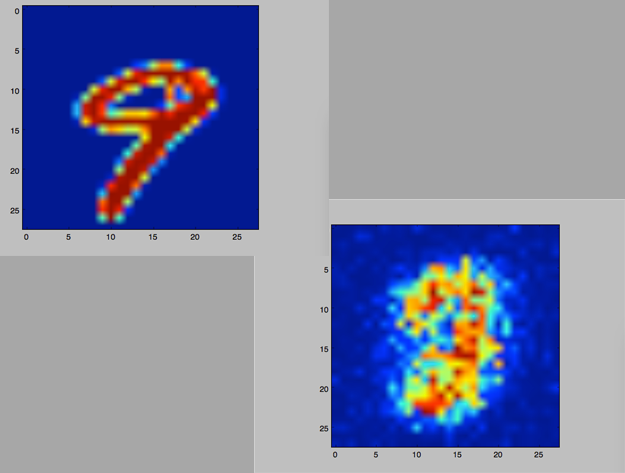
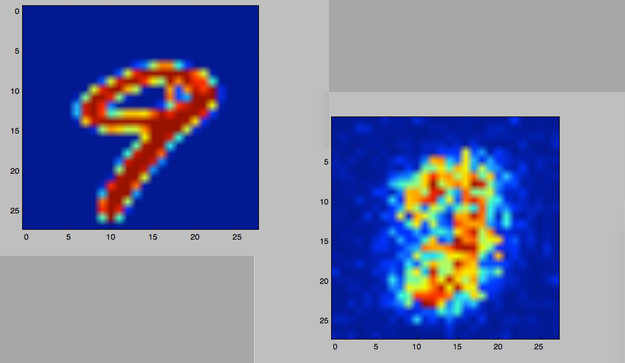
fixes

diff --git a/css/creative.min.css b/css/creative.min.css
@@ -2,4 +2,4 @@
  * Start Bootstrap - Creative v3.3.7+1 (http://startbootstrap.com/template-overviews/creative)
  * Copyright 2013-2016 Start Bootstrap
  * Licensed under MIT (https://github.com/BlackrockDigital/startbootstrap/blob/gh-pages/LICENSE)
- */.navbar-default,a{-webkit-transition:all .35s;-moz-transition:all .35s}header,header .header-content{position:relative;width:100%;text-align:center}body,html{height:100%;width:100%}body{font-family:Merriweather,'Helvetica Neue',Arial,sans-serif;webkit-tap-highlight-color:#222}.btn,.navbar-default,.navbar-default .navbar-header .navbar-brand,h1,h2,h3,h4,h5,h6{font-family:'Open Sans','Helvetica Neue',Arial,sans-serif}hr{border-color:#F05F40;border-width:3px;max-width:50px}hr.light{border-color:#fff}a{transition:all .35s;color:#F05F40}a:focus,a:hover{color:#eb3812}p{font-size:16px;line-height:1.5;margin-bottom:20px}.bg-primary{background-color:#F05F40}.bg-dark{background-color:#222;color:#fff}.text-faded{color:rgba(255,255,255,.7)}section{padding:100px 0}aside{padding:50px 0}.no-padding{padding:0}.navbar-default{background-color:#fff;border-color:rgba(34,34,34,.05);transition:all .35s}.btn-default,.portfolio-box .portfolio-box-caption{-webkit-transition:all .35s;-moz-transition:all .35s}.navbar-default .navbar-header .navbar-brand{color:#F05F40;font-weight:700;text-transform:uppercase}.navbar-default .navbar-header .navbar-brand:focus,.navbar-default .navbar-header .navbar-brand:hover{color:#eb3812}.navbar-default .navbar-header .navbar-toggle{font-weight:700;font-size:12px;color:#222;text-transform:uppercase}.navbar-default .nav>li>a,.navbar-default .nav>li>a:focus{text-transform:uppercase;font-weight:700;font-size:13px;color:#222}.navbar-default .nav>li>a:focus:hover,.navbar-default .nav>li>a:hover{color:#F05F40}.navbar-default .nav>li.active>a,.navbar-default .nav>li.active>a:focus{color:#F05F40!important;background-color:transparent}.navbar-default .nav>li.active>a:focus:hover,.navbar-default .nav>li.active>a:hover{background-color:transparent}@media (min-width:768px){.navbar-default{background-color:transparent;border-color:rgba(255,255,255,.3)}.navbar-default .navbar-header .navbar-brand{color:rgba(255,255,255,.7)}.navbar-default .navbar-header .navbar-brand:focus,.navbar-default .navbar-header .navbar-brand:hover{color:#fff}.navbar-default .nav>li>a,.navbar-default .nav>li>a:focus{color:rgba(255,255,255,.7)}.navbar-default .nav>li>a:focus:hover,.navbar-default .nav>li>a:hover{color:#fff}.navbar-default.affix{background-color:#fff;border-color:rgba(34,34,34,.05)}.navbar-default.affix .navbar-header .navbar-brand{color:#F05F40;font-size:14px}.navbar-default.affix .navbar-header .navbar-brand:focus,.navbar-default.affix .navbar-header .navbar-brand:hover{color:#eb3812}.navbar-default.affix .nav>li>a,.navbar-default.affix .nav>li>a:focus{color:#222}.navbar-default.affix .nav>li>a:focus:hover,.navbar-default.affix .nav>li>a:hover{color:#F05F40}}header{min-height:auto;-webkit-background-size:cover;-moz-background-size:cover;background-size:cover;-o-background-size:cover;background-position:center;background-image:url(../img/header.jpg);color:#fff}header .header-content{padding:100px 15px}header .header-content .header-content-inner h1{font-weight:700;text-transform:uppercase;margin-top:0;margin-bottom:0;font-size:30px}header .header-content .header-content-inner hr{margin:30px auto}header .header-content .header-content-inner p{font-weight:300;color:rgba(255,255,255,.7);font-size:16px;margin-bottom:50px}@media (min-width:768px){header{min-height:100%}header .header-content{position:absolute;top:50%;-webkit-transform:translateY(-50%);-ms-transform:translateY(-50%);transform:translateY(-50%);padding:0 50px}header .header-content .header-content-inner{max-width:1000px;margin-left:auto;margin-right:auto}header .header-content .header-content-inner h1{font-size:50px}header .header-content .header-content-inner p{font-size:18px;max-width:80%;margin-left:auto;margin-right:auto}}.section-heading{margin-top:0}.service-box{max-width:400px;margin:50px auto 0}@media (min-width:992px){.service-box{margin:20px auto 0}}.service-box p{margin-bottom:0}.portfolio-box{position:relative;display:block;max-width:650px;margin:0 auto}.portfolio-box .portfolio-box-caption{color:#fff;opacity:0;display:block;background:rgba(240,95,64,.9);position:absolute;bottom:0;text-align:center;width:100%;height:100%;transition:all .35s}.btn-default.active,.btn-default:active,.btn-primary.active,.btn-primary:active,.open>.dropdown-toggle.btn-default,.open>.dropdown-toggle.btn-primary{background-image:none}.portfolio-box .portfolio-box-caption .portfolio-box-caption-content{width:100%;text-align:center;position:absolute;top:50%;transform:translateY(-50%)}.portfolio-box .portfolio-box-caption .portfolio-box-caption-content .project-category,.portfolio-box .portfolio-box-caption .portfolio-box-caption-content .project-name{font-family:'Open Sans','Helvetica Neue',Arial,sans-serif;padding:0 15px}.portfolio-box .portfolio-box-caption .portfolio-box-caption-content .project-category{text-transform:uppercase;font-weight:600;font-size:14px}.portfolio-box .portfolio-box-caption .portfolio-box-caption-content .project-name{font-size:18px}.portfolio-box:hover .portfolio-box-caption{opacity:1}.portfolio-box:focus{outline:0}@media (min-width:768px){.portfolio-box .portfolio-box-caption .portfolio-box-caption-content .project-category{font-size:16px}.portfolio-box .portfolio-box-caption .portfolio-box-caption-content .project-name{font-size:22px}}.call-to-action h2{margin:0 auto 20px}.text-primary{color:#F05F40}.no-gutter>[class*=col-]{padding-right:0;padding-left:0}.btn-default{color:#222;background-color:#fff;border-color:#fff;transition:all .35s}.btn-default.active,.btn-default.focus,.btn-default:active,.btn-default:focus,.btn-default:hover,.open>.dropdown-toggle.btn-default{color:#222;background-color:#f2f2f2;border-color:#ededed}.btn-default.disabled,.btn-default.disabled.active,.btn-default.disabled.focus,.btn-default.disabled:active,.btn-default.disabled:focus,.btn-default.disabled:hover,.btn-default[disabled],.btn-default[disabled].active,.btn-default[disabled].focus,.btn-default[disabled]:active,.btn-default[disabled]:focus,.btn-default[disabled]:hover,fieldset[disabled] .btn-default,fieldset[disabled] .btn-default.active,fieldset[disabled] .btn-default.focus,fieldset[disabled] .btn-default:active,fieldset[disabled] .btn-default:focus,fieldset[disabled] .btn-default:hover{background-color:#fff;border-color:#fff}.btn-default .badge{color:#fff;background-color:#222}.btn-primary{color:#fff;background-color:#F05F40;border-color:#F05F40;-webkit-transition:all .35s;-moz-transition:all .35s;transition:all .35s}.btn-primary.active,.btn-primary.focus,.btn-primary:active,.btn-primary:focus,.btn-primary:hover,.open>.dropdown-toggle.btn-primary{color:#fff;background-color:#ee4b28;border-color:#ed431f}.btn-primary.disabled,.btn-primary.disabled.active,.btn-primary.disabled.focus,.btn-primary.disabled:active,.btn-primary.disabled:focus,.btn-primary.disabled:hover,.btn-primary[disabled],.btn-primary[disabled].active,.btn-primary[disabled].focus,.btn-primary[disabled]:active,.btn-primary[disabled]:focus,.btn-primary[disabled]:hover,fieldset[disabled] .btn-primary,fieldset[disabled] .btn-primary.active,fieldset[disabled] .btn-primary.focus,fieldset[disabled] .btn-primary:active,fieldset[disabled] .btn-primary:focus,fieldset[disabled] .btn-primary:hover{background-color:#F05F40;border-color:#F05F40}.btn-primary .badge{color:#F05F40;background-color:#fff}.btn{border:none;border-radius:300px;font-weight:700;text-transform:uppercase}.btn-xl{padding:15px 30px}::-moz-selection{color:#fff;text-shadow:none;background:#222}::selection{color:#fff;text-shadow:none;background:#222}img::selection{color:#fff;background:0 0}img::-moz-selection{color:#fff;background:0 0}
+ */.navbar-default,a{-webkit-transition:all .35s;-moz-transition:all .35s}header,header .header-content{position:relative;width:100%;text-align:center}body,html{height:100%;width:100%}body{font-family:Merriweather,'Helvetica Neue',Arial,sans-serif;webkit-tap-highlight-color:#222}.btn,.navbar-default,.navbar-default .navbar-header .navbar-brand,h1,h2,h3,h4,h5,h6{font-family:'Open Sans','Helvetica Neue',Arial,sans-serif}hr{border-color:#F05F40;border-width:3px;max-width:50px}hr.light{border-color:#fff}a{transition:all .35s;color:#F05F40}a:focus,a:hover{color:#eb3812}p{font-size:16px;line-height:1.5;margin-bottom:20px}.bg-primary{background-color:#F05F40}.bg-dark{background-color:#222;color:#fff}.text-faded{color:rgba(255,255,255,.7)}section{padding:100px 0}aside{padding:50px 0}.no-padding{padding:0}.navbar-default{background-color:#fff;border-color:rgba(34,34,34,.05);transition:all .35s}.btn-default,.portfolio-box .portfolio-box-caption{-webkit-transition:all .35s;-moz-transition:all .35s}.navbar-default .navbar-header .navbar-brand{color:#F05F40;font-weight:700;text-transform:uppercase}.navbar-default .navbar-header .navbar-brand:focus,.navbar-default .navbar-header .navbar-brand:hover{color:#eb3812}.navbar-default .navbar-header .navbar-toggle{font-weight:700;font-size:12px;color:#222;text-transform:uppercase}.navbar-default .nav>li>a,.navbar-default .nav>li>a:focus{text-transform:uppercase;font-weight:700;font-size:13px;color:#222}.navbar-default .nav>li>a:focus:hover,.navbar-default .nav>li>a:hover{color:#F05F40}.navbar-default .nav>li.active>a,.navbar-default .nav>li.active>a:focus{color:#F05F40!important;background-color:transparent}.navbar-default .nav>li.active>a:focus:hover,.navbar-default .nav>li.active>a:hover{background-color:transparent}@media (min-width:768px){.navbar-default{background-color:transparent;border-color:rgba(255,255,255,.3)}.navbar-default .navbar-header .navbar-brand{color:rgba(255,255,255,.7)}.navbar-default .navbar-header .navbar-brand:focus,.navbar-default .navbar-header .navbar-brand:hover{color:#fff}.navbar-default .nav>li>a,.navbar-default .nav>li>a:focus{color:rgba(255,255,255,.7)}.navbar-default .nav>li>a:focus:hover,.navbar-default .nav>li>a:hover{color:#fff}.navbar-default.affix{background-color:#fff;border-color:rgba(34,34,34,.05)}.navbar-default.affix .navbar-header .navbar-brand{color:#F05F40;font-size:14px}.navbar-default.affix .navbar-header .navbar-brand:focus,.navbar-default.affix .navbar-header .navbar-brand:hover{color:#eb3812}.navbar-default.affix .nav>li>a,.navbar-default.affix .nav>li>a:focus{color:#222}.navbar-default.affix .nav>li>a:focus:hover,.navbar-default.affix .nav>li>a:hover{color:#F05F40}}header{min-height:auto;-webkit-background-size:cover;-moz-background-size:cover;background-size:cover;-o-background-size:cover;background-position:center;background-image:url(../imgs/howls.png);color:#fff}header .header-content{padding:100px 15px}header .header-content .header-content-inner h1{font-weight:700;text-transform:uppercase;margin-top:0;margin-bottom:0;font-size:30px}header .header-content .header-content-inner hr{margin:30px auto}header .header-content .header-content-inner p{font-weight:300;color:rgba(255,255,255,.7);font-size:16px;margin-bottom:50px}@media (min-width:768px){header{min-height:100%}header .header-content{position:absolute;top:50%;-webkit-transform:translateY(-50%);-ms-transform:translateY(-50%);transform:translateY(-50%);padding:0 50px}header .header-content .header-content-inner{max-width:1000px;margin-left:auto;margin-right:auto}header .header-content .header-content-inner h1{font-size:50px}header .header-content .header-content-inner p{font-size:18px;max-width:80%;margin-left:auto;margin-right:auto}}.section-heading{margin-top:0}.service-box{max-width:400px;margin:50px auto 0}@media (min-width:992px){.service-box{margin:20px auto 0}}.service-box p{margin-bottom:0}.portfolio-box{position:relative;display:block;max-width:650px;margin:0 auto}.portfolio-box .portfolio-box-caption{color:#fff;opacity:0;display:block;background:rgba(240,95,64,.9);position:absolute;bottom:0;text-align:center;width:100%;height:100%;transition:all .35s}.btn-default.active,.btn-default:active,.btn-primary.active,.btn-primary:active,.open>.dropdown-toggle.btn-default,.open>.dropdown-toggle.btn-primary{background-image:none}.portfolio-box .portfolio-box-caption .portfolio-box-caption-content{width:100%;text-align:center;position:absolute;top:50%;transform:translateY(-50%)}.portfolio-box .portfolio-box-caption .portfolio-box-caption-content .project-category,.portfolio-box .portfolio-box-caption .portfolio-box-caption-content .project-name{font-family:'Open Sans','Helvetica Neue',Arial,sans-serif;padding:0 15px}.portfolio-box .portfolio-box-caption .portfolio-box-caption-content .project-category{text-transform:uppercase;font-weight:600;font-size:14px}.portfolio-box .portfolio-box-caption .portfolio-box-caption-content .project-name{font-size:18px}.portfolio-box:hover .portfolio-box-caption{opacity:1}.portfolio-box:focus{outline:0}@media (min-width:768px){.portfolio-box .portfolio-box-caption .portfolio-box-caption-content .project-category{font-size:16px}.portfolio-box .portfolio-box-caption .portfolio-box-caption-content .project-name{font-size:22px}}.call-to-action h2{margin:0 auto 20px}.text-primary{color:#F05F40}.no-gutter>[class*=col-]{padding-right:0;padding-left:0}.btn-default{color:#222;background-color:#fff;border-color:#fff;transition:all .35s}.btn-default.active,.btn-default.focus,.btn-default:active,.btn-default:focus,.btn-default:hover,.open>.dropdown-toggle.btn-default{color:#222;background-color:#f2f2f2;border-color:#ededed}.btn-default.disabled,.btn-default.disabled.active,.btn-default.disabled.focus,.btn-default.disabled:active,.btn-default.disabled:focus,.btn-default.disabled:hover,.btn-default[disabled],.btn-default[disabled].active,.btn-default[disabled].focus,.btn-default[disabled]:active,.btn-default[disabled]:focus,.btn-default[disabled]:hover,fieldset[disabled] .btn-default,fieldset[disabled] .btn-default.active,fieldset[disabled] .btn-default.focus,fieldset[disabled] .btn-default:active,fieldset[disabled] .btn-default:focus,fieldset[disabled] .btn-default:hover{background-color:#fff;border-color:#fff}.btn-default .badge{color:#fff;background-color:#222}.btn-primary{color:#fff;background-color:#F05F40;border-color:#F05F40;-webkit-transition:all .35s;-moz-transition:all .35s;transition:all .35s}.btn-primary.active,.btn-primary.focus,.btn-primary:active,.btn-primary:focus,.btn-primary:hover,.open>.dropdown-toggle.btn-primary{color:#fff;background-color:#ee4b28;border-color:#ed431f}.btn-primary.disabled,.btn-primary.disabled.active,.btn-primary.disabled.focus,.btn-primary.disabled:active,.btn-primary.disabled:focus,.btn-primary.disabled:hover,.btn-primary[disabled],.btn-primary[disabled].active,.btn-primary[disabled].focus,.btn-primary[disabled]:active,.btn-primary[disabled]:focus,.btn-primary[disabled]:hover,fieldset[disabled] .btn-primary,fieldset[disabled] .btn-primary.active,fieldset[disabled] .btn-primary.focus,fieldset[disabled] .btn-primary:active,fieldset[disabled] .btn-primary:focus,fieldset[disabled] .btn-primary:hover{background-color:#F05F40;border-color:#F05F40}.btn-primary .badge{color:#F05F40;background-color:#fff}.btn{border:none;border-radius:300px;font-weight:700;text-transform:uppercase}.btn-xl{padding:15px 30px}::-moz-selection{color:#fff;text-shadow:none;background:#222}::selection{color:#fff;text-shadow:none;background:#222}img::selection{color:#fff;background:0 0}img::-moz-selection{color:#fff;background:0 0}

diff --git a/index.html b/index.html
@@ -9,7 +9,7 @@
     <meta name="description" content="">
     <meta name="author" content="">
 
-    <title>TheLifeOfBrian</title>
+    <title>The Life Of Brian</title>
 
     <!-- Bootstrap Core CSS -->
     <link href="vendor/bootstrap/css/bootstrap.min.css" rel="stylesheet">
@@ -43,7 +43,7 @@
                 <button type="button" class="navbar-toggle collapsed" data-toggle="collapse" data-target="#bs-example-navbar-collapse-1">
                     <span class="sr-only">Toggle navigation</span> Menu <i class="fa fa-bars"></i>
                 </button>
-                <a class="navbar-brand page-scroll" href="#page-top"></a>
+                <a class="navbar-brand page-scroll" href="#page-top">Symmetry</a>
             </div>
 
             <!-- Collect the nav links, forms, and other content for toggling -->
@@ -90,7 +90,7 @@
                                         window.location = "http://pantheonvr.com/";
                                      }
                                      var openMemorease = function(){
-                                        window.location = "https://www.youtube.com/watch?v=7Tv3mC9fe1A";
+                                        window.location = "https://www.youtube.com/watch?v=MzsP0DX4ff0&list=PLtVGXnbLK5Zu5fkdrlnleagFg8okJtPhe";
                                      }
                                      var openGitHub = function(){
                                         window.location = "https://github.com/FlyingSpringrol";
@@ -270,14 +270,14 @@
                 </div>
                 <div class="col-lg-4 col-sm-6">
                     <a href="imgs/mitochondria.png" class="portfolio-box">
-                        <img src="imgs/synapse.png" class="img-responsive" alt="">
+                        <img src="imgs/mitochondria.png" class="img-responsive" alt="">
                         <div class="portfolio-box-caption">
                             <div class="portfolio-box-caption-content">
                                 <div class="project-category text-faded">
                                     3d modeling
                                 </div>
                                 <div class="project-name">
-                                    Learned blender to do cellular modeling.
+                                    I learned blender so I could create models of cells. This is a render of a mitochondria.
                                 </div>
                             </div>
                         </div>
@@ -292,7 +292,7 @@
                                     Programming/Machine Learning
                                 </div>
                                 <div class="project-name">
-                                    Using Flask and Numpy implemented a hopfield network.
+                                    Using Flask and Numpy I implemented a hopfield network. This picture shows the net (on a server), reconstructing the data and sending it back to the browser.
                                 </div>
                             </div>
                         </div>
@@ -307,22 +307,22 @@
                                     Art
                                 </div>
                                 <div class="project-name">
-                                    Used blender to do experimental low-poly artwork.
+                                    I use blender to do experimental low-poly artwork like this one.
                                 </div>
                             </div>
                         </div>
                     </a>
                 </div>
                 <div class="col-lg-4 col-sm-6">
-                    <a href="imgs/nn.png" class="portfolio-box">
-                        <img src="imgs/nn.png" class="img-responsive" alt="">
+                    <a href="imgs/nn2.png" class="portfolio-box">
+                        <img src="imgs/nn2.png" class="img-responsive" alt="">
                         <div class="portfolio-box-caption">
                             <div class="portfolio-box-caption-content">
                                 <div class="project-category text-faded">
                                     Programming/Machine Learning
                                 </div>
                                 <div class="project-name">
-                                    Implemented a vanilla neural network to learn how to program.
+                                    This picture is of a vanilla neural network I wrote in Javascript. It's how I learned to program.
                                 </div>
                             </div>
                         </div>
@@ -337,7 +337,7 @@
                                     Programming/ Machine Learning
                                 </div>
                                 <div class="project-name">
-                                    Implemented a Restricted Boltzmann machine.
+                                    This image shows the Restricted Boltzmann machine I implemented attempting to reconstruct MNIST digits.
                                 </div>
                             </div>
                         </div>
@@ -351,9 +351,9 @@
         <div class="container">
             <div class="row">
                 <div class="col-lg-8 col-lg-offset-2 text-center">
-                    <h2 class="section-heading">Contact me!</h2>
+                    <h2 class="section-heading">Contact</h2>
                     <hr class="primary">
-                    <p>I'll get back to you in the next couple days!</p>
+                    <p>If you email me I'll get back to you in the next couple days!</p>
                 </div>
                 <div class="col-lg-4 col-lg-offset-2 text-center">
                     <i class="fa fa-phone fa-3x sr-contact"></i>
